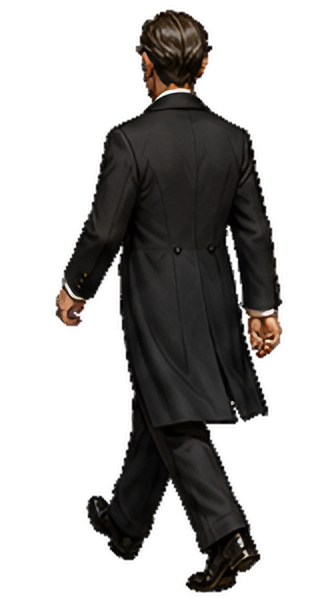
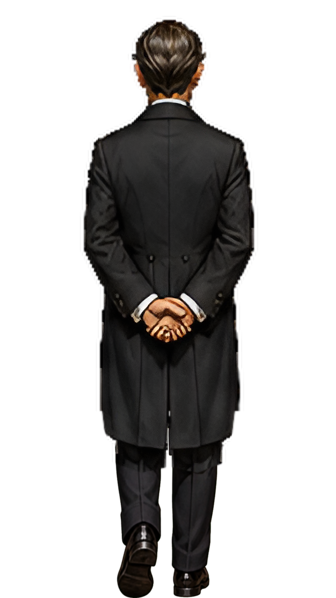
Keep Butler hands folded during walk-up

Changed region(s): [[0.1488, 0.0, 0.8631, 1.0], [0.4464, 0.4214, 0.4762, 0.4515]]

diff --git a/Assets/Editor/ButlerSpriteQualityRegressionTests.cs b/Assets/Editor/ButlerSpriteQualityRegressionTests.cs
@@ -48,7 +48,7 @@ public class ButlerSpriteQualityRegressionTests
         AssertTransparent("butler_idle/butler_idle_01.png", 246, 300, "front right arm gap");
         AssertTransparent("butler_classic_walk_06_r02_c02.png", 224, 290, "left-walk arm gap");
         AssertTransparent("butler_classic_walk_10_r03_c02.png", 114, 290, "right-walk arm gap");
-        AssertTransparent("butler_classic_walk_14_r04_c02.png", 236, 260, "away-walk arm gap");
+        AssertTransparent("butler_classic_walk_14_r04_c02.png", 168, 540, "away-walk leg gap");
     }
 
     private static void AssertTransparent(string relativePath, int x, int topY, string description)